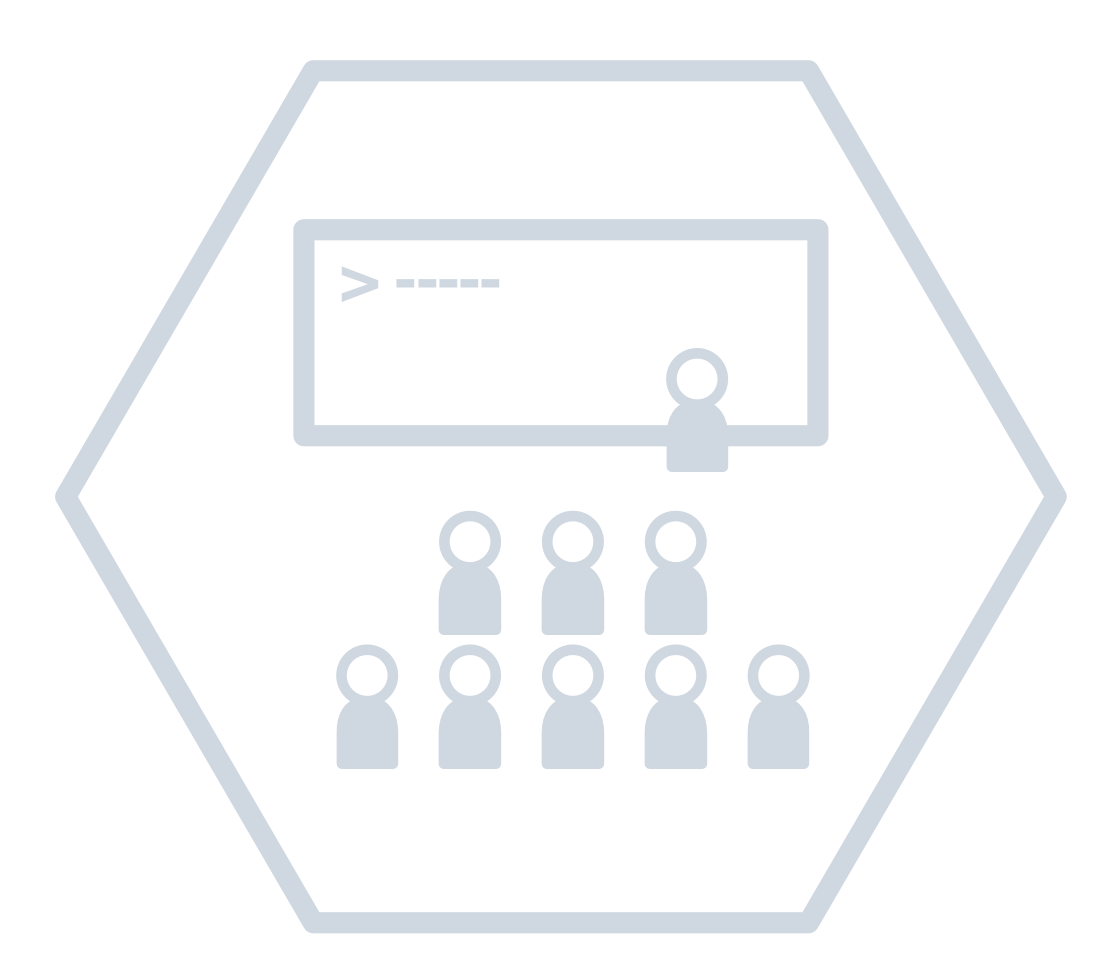
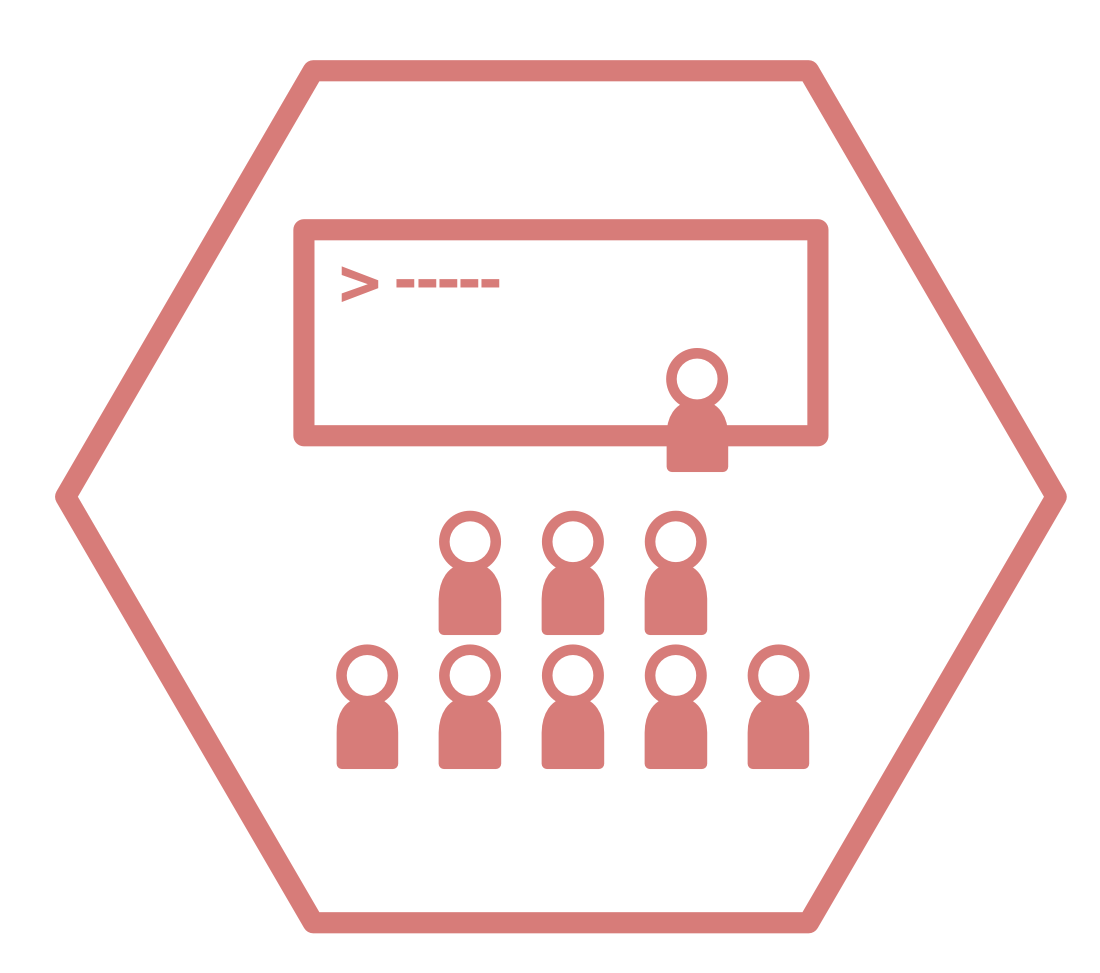
update training graphics

diff --git a/_sass/minimal-mistakes/_variables.scss b/_sass/minimal-mistakes/_variables.scss
@@ -71,7 +71,7 @@ $info-color                   : #52adc8 !default;
 $metrics-color                : #9DAF72 !default;
 $analytics-color              : #DBAF00 !default;
 $technology-color             : #C59A6F !default;
-$training-color               : #C5CDD8 !default;
+$training-color               : #CC6666 !default;
 
 /* YIQ color contrast */
 $yiq-contrasted-dark-default  : $dark-gray !default;

diff --git a/_pages/index.md b/_pages/index.md
@@ -15,7 +15,7 @@ excerpt: Innovative surveys for rapid, low-cost and high impact assessments
 
 We at [Valid International](http://www.validinternational.org) believe that there is a better way for organisations to approach assessments. With the appropriate metrics to measure the problem or issues in question, robust analytics to estimate the value of the indicators being measured, the right technology – simple to use tools that aid in making assessments rapid and efficient, and an effective training that is based on a learner-oriented and problem-based learning system, organisations can take control of their assessment needs and goals.
 
-We offer modules on metrics, analytics, technology and training for assessments which have been designed to support organisations to setup and implement, analyse and report, and manage and sustain assessments needed for them to run highly-effective programmes.
+We offer services on metrics, analytics, technology and training for surveys which have been designed to support organisations to setup and implement, analyse and report, and manage and sustain assessments needed for them to run highly-effective programmes.
 
 <br/>
 
@@ -89,7 +89,7 @@ Our **training** services provide solutions for learning the Valid approach to a
 We offer specialised and specific survey products that we have previously designed, developed and tested. These survey products are ready for use: rapid to setup, implement and scale up.
 {: .text-center}
 
-[Browse our survey products](/projects/){: .btn .btn--danger}   [Contact us for your survey needs](/contact/){: .btn .btn--warning}
+[Browse our survey products](/projects/){: .btn .btn--danger}   [Contact us about our survey products](/contact/){: .btn .btn--warning}
 {: .text-center}
 
 <br/>
@@ -101,7 +101,7 @@ We offer specialised and specific survey products that we have previously design
 The services we offer can be utilised individually or as linked services depending on your specific needs. Our survey services can be developed and applied bespoke to an organisation's assessment needs and requirements.
 {: .text-center}
 
-[Browse our previous work](/projects/){: .btn .btn--danger}     [Contact us for your survey needs](/contact/){: .btn .btn--warning}
+[Browse our previous work](/projects/){: .btn .btn--danger}     [Contact us about your survey needs](/contact/){: .btn .btn--warning}
 {: .text-center}
 
 <br/>
